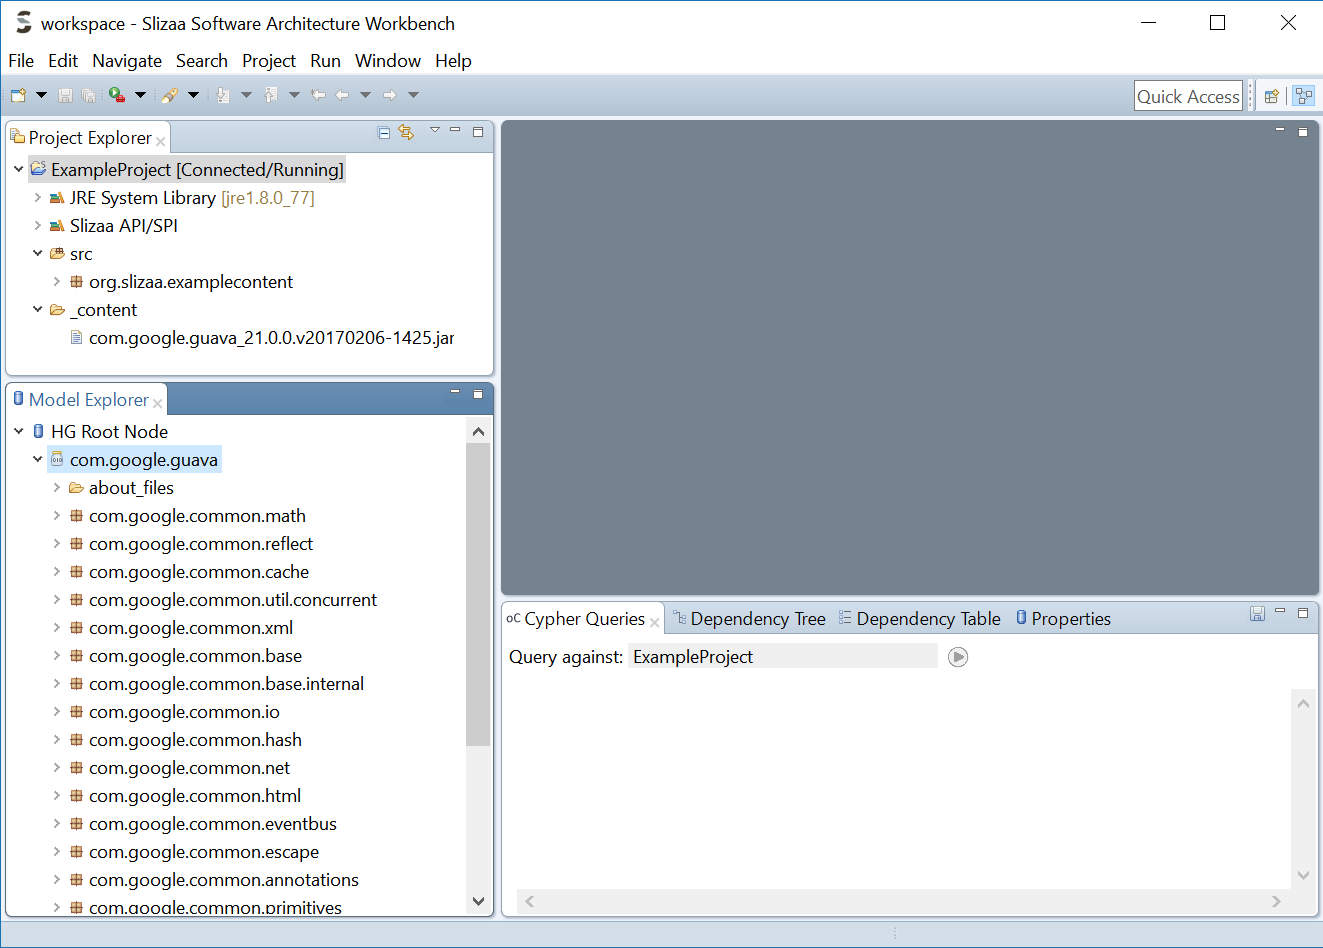
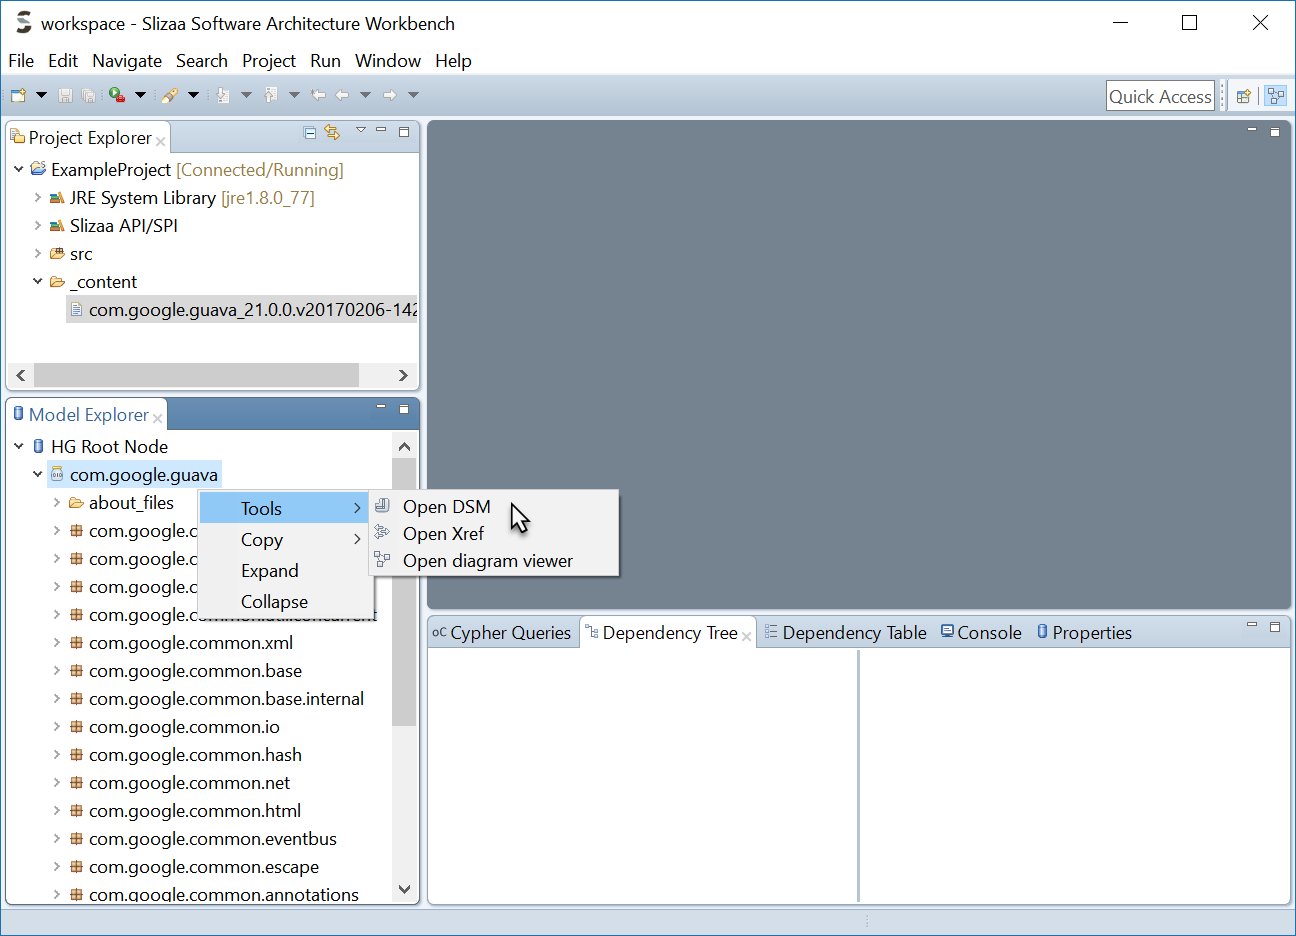
added new screenshots to quick start section

Changed region(s): [[0.0, 0.0, 1.0, 0.9915], [0.9568, 0.0, 0.9877, 0.031]]

diff --git a/site/content/documentation/quickstart_hierachicalgraph.md b/site/content/documentation/quickstart_hierachicalgraph.md
@@ -1,5 +1,5 @@
 ---
-title: "Step 4: Map to a Hierachical Graph"
+title: "Step 4: Create a hierachical Graph"
 date: 2018-04-07
 publishdate: 2018-04-07
 documentationCategories: ["Quick Start"]
@@ -8,6 +8,10 @@ documentationCategories_weight: 4
 
 Learn how to use the integrated QueryView to execute Cypher Queries.
 
-{{< figure src="/img/documentation/quick_start/hierarchical_graph/create_hierarchical_graph.png" width="75%" title="Parse a software system" >}}
+{{< figure src="/img/documentation/quick_start/hierarchical_graph/create_hierarchical_graph.png" width="75%" title="Create a hierarchical graph" >}}
 
-{{< figure src="/img/documentation/quick_start/hierarchical_graph/hierarchical_graph.png" width="75%" title="Parse a software system" >}}
+{{< figure src="/img/documentation/quick_start/hierarchical_graph/hierarchical_graph.png" width="75%" title="The hierachical graph" >}}
+
+{{< figure src="/img/documentation/quick_start/hierarchical_graph/dsm.png" width="75%" title="Dependency Structure Matrix" >}}
+
+{{< figure src="/img/documentation/quick_start/hierarchical_graph/diagram.png" width="75%" title="Diagram" >}}

diff --git a/site/content/documentation/quickstart_executecypher.md b/site/content/documentation/quickstart_executecypher.md
@@ -30,14 +30,21 @@ You can save the current query by hiting `Strg+Alt+S` or pushing the the 'Save' 
 
 ## Example cypher queries
 
+List all (fully qualified) module names:
+
 ```
 MATCH (f:Module) RETURN f.fqn
 ```
+
+Return the overall type count:
 
 ```
 MATCH (t:Type) RETURN count(t)
 ```
 
+List all (fully qualified) types names that extends 'java.lang.Enum':
+
 ```
-MATCH (t:Type)-[:EXTENDS]->(super:TypeReference) WHERE super.name ENDS WITH 'Exception' RETURN t.fqn, super.fqn
+MATCH (t:Type)-[:EXTENDS]->(super:TypeReference {fqn: 'java.lang.Enum'}) 
+RETURN t.fqn
 ```
